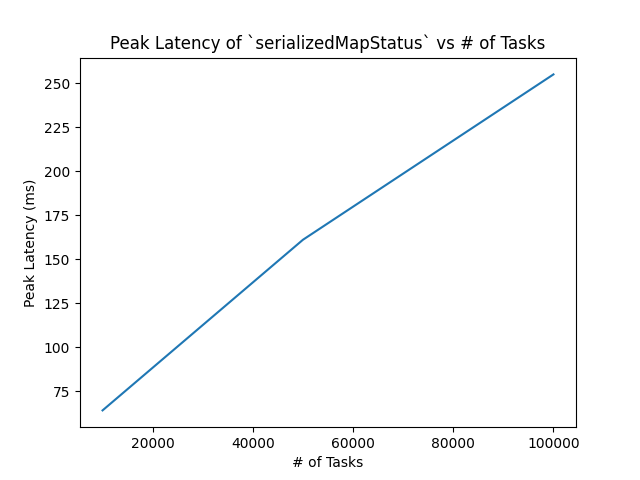
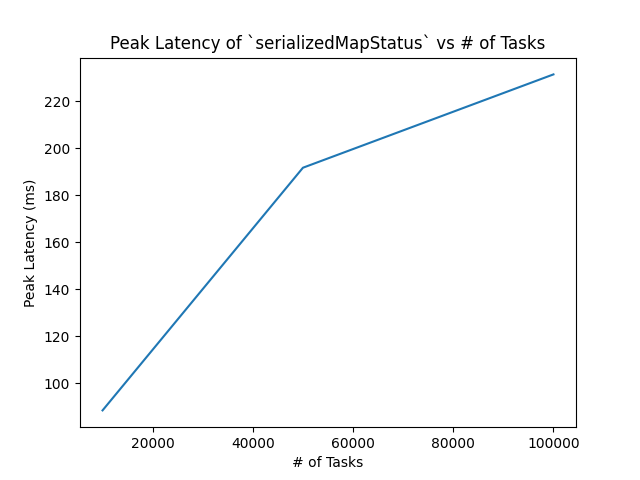
Update plot

diff --git a/plotChart.py b/plotChart.py
@@ -1,8 +1,30 @@
 import matplotlib.pyplot as plt
+import re
+
+def extract_max_nanoseconds(log_file_path):
+    max_nanoseconds = 0
+    pattern = r"Time taken for serializedMapStatus: (\d+) nanoseconds"
+
+    with open(log_file_path, 'r') as file:
+        for line in file:
+            match = re.search(pattern, line)
+            if match:
+                nanoseconds = int(match.group(1))
+                if nanoseconds > max_nanoseconds:
+                    max_nanoseconds = nanoseconds
+    return max_nanoseconds
+
+log_file_10000 = '/mnt/spark-exp/output_10000.txt'
+log_file_50000 = '/mnt/spark-exp/output_50000.txt'
+log_file_100000 = '/mnt/spark-exp/output_100000.txt'
+
+max_lat_10000 = extract_max_nanoseconds(log_file_10000) / 1000000
+max_lat_50000 = extract_max_nanoseconds(log_file_50000) / 1000000
+max_lat_100000 = extract_max_nanoseconds(log_file_100000) / 1000000
 
 # Data
 x = [10000, 50000, 100000]
-y = [64, 161, 255]
+y = [max_lat_10000, max_lat_50000, max_lat_100000]
 
 # Create a line plot
 plt.plot(x, y)
